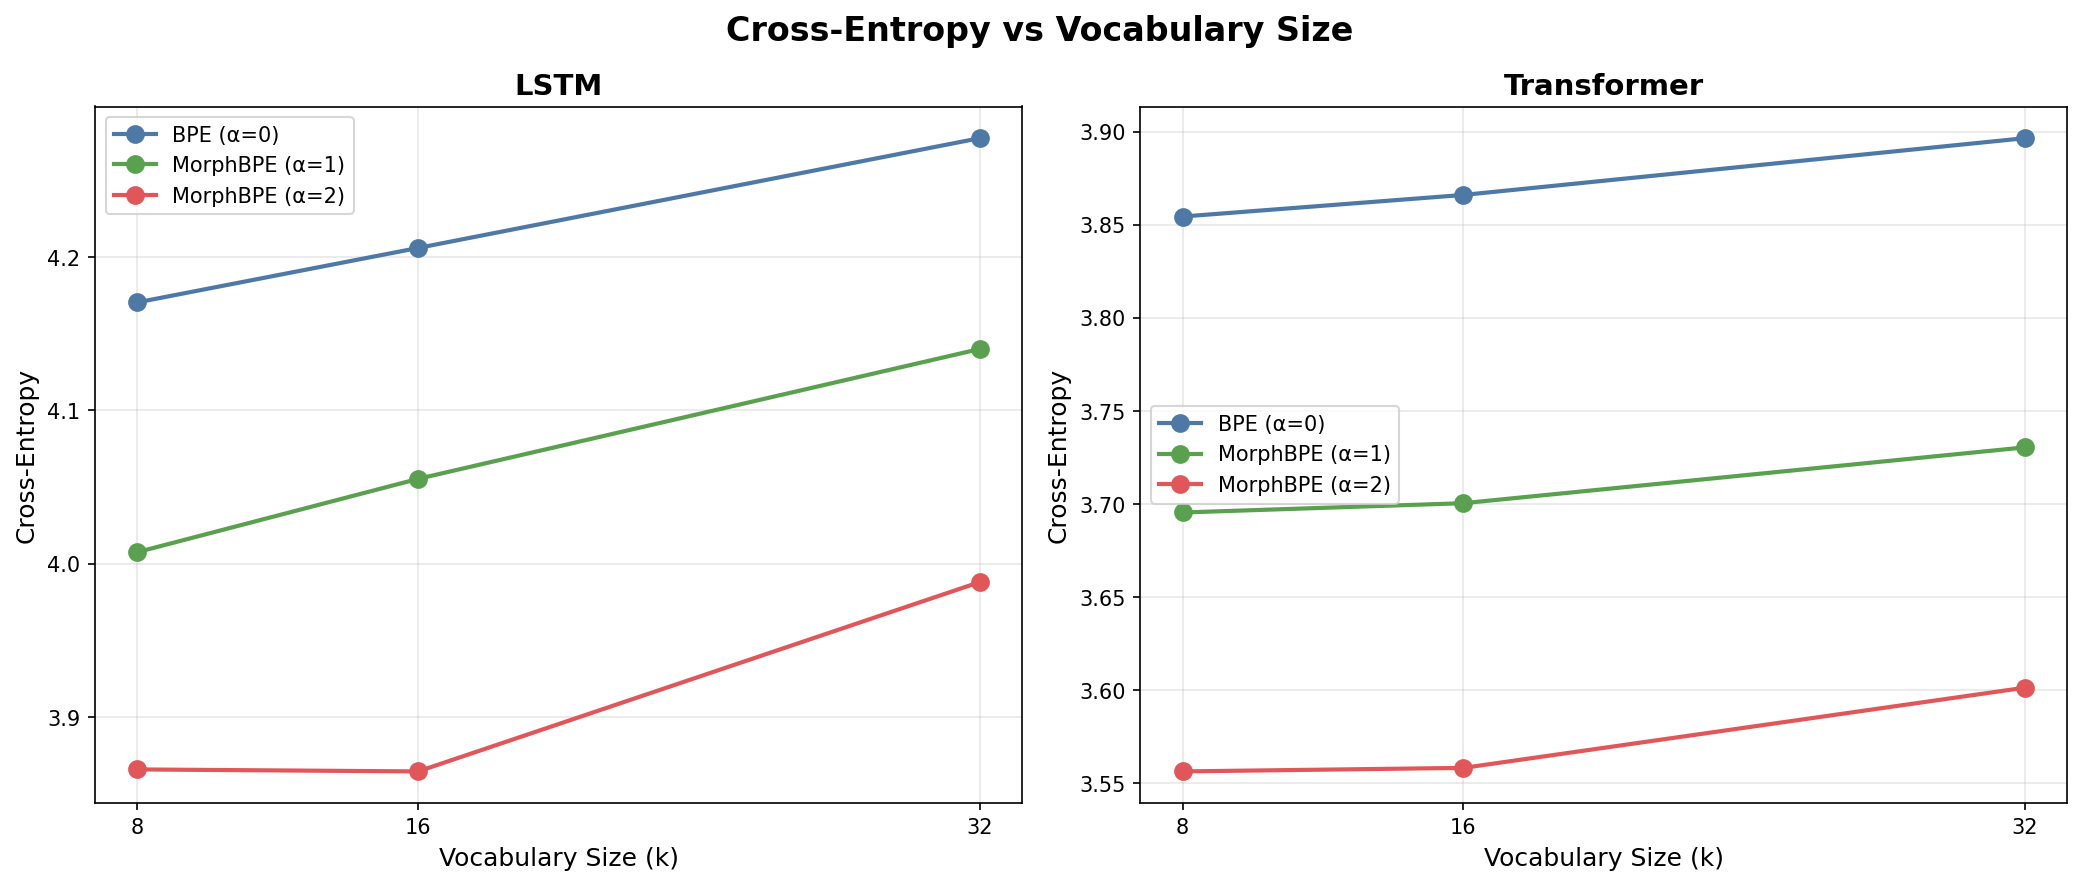
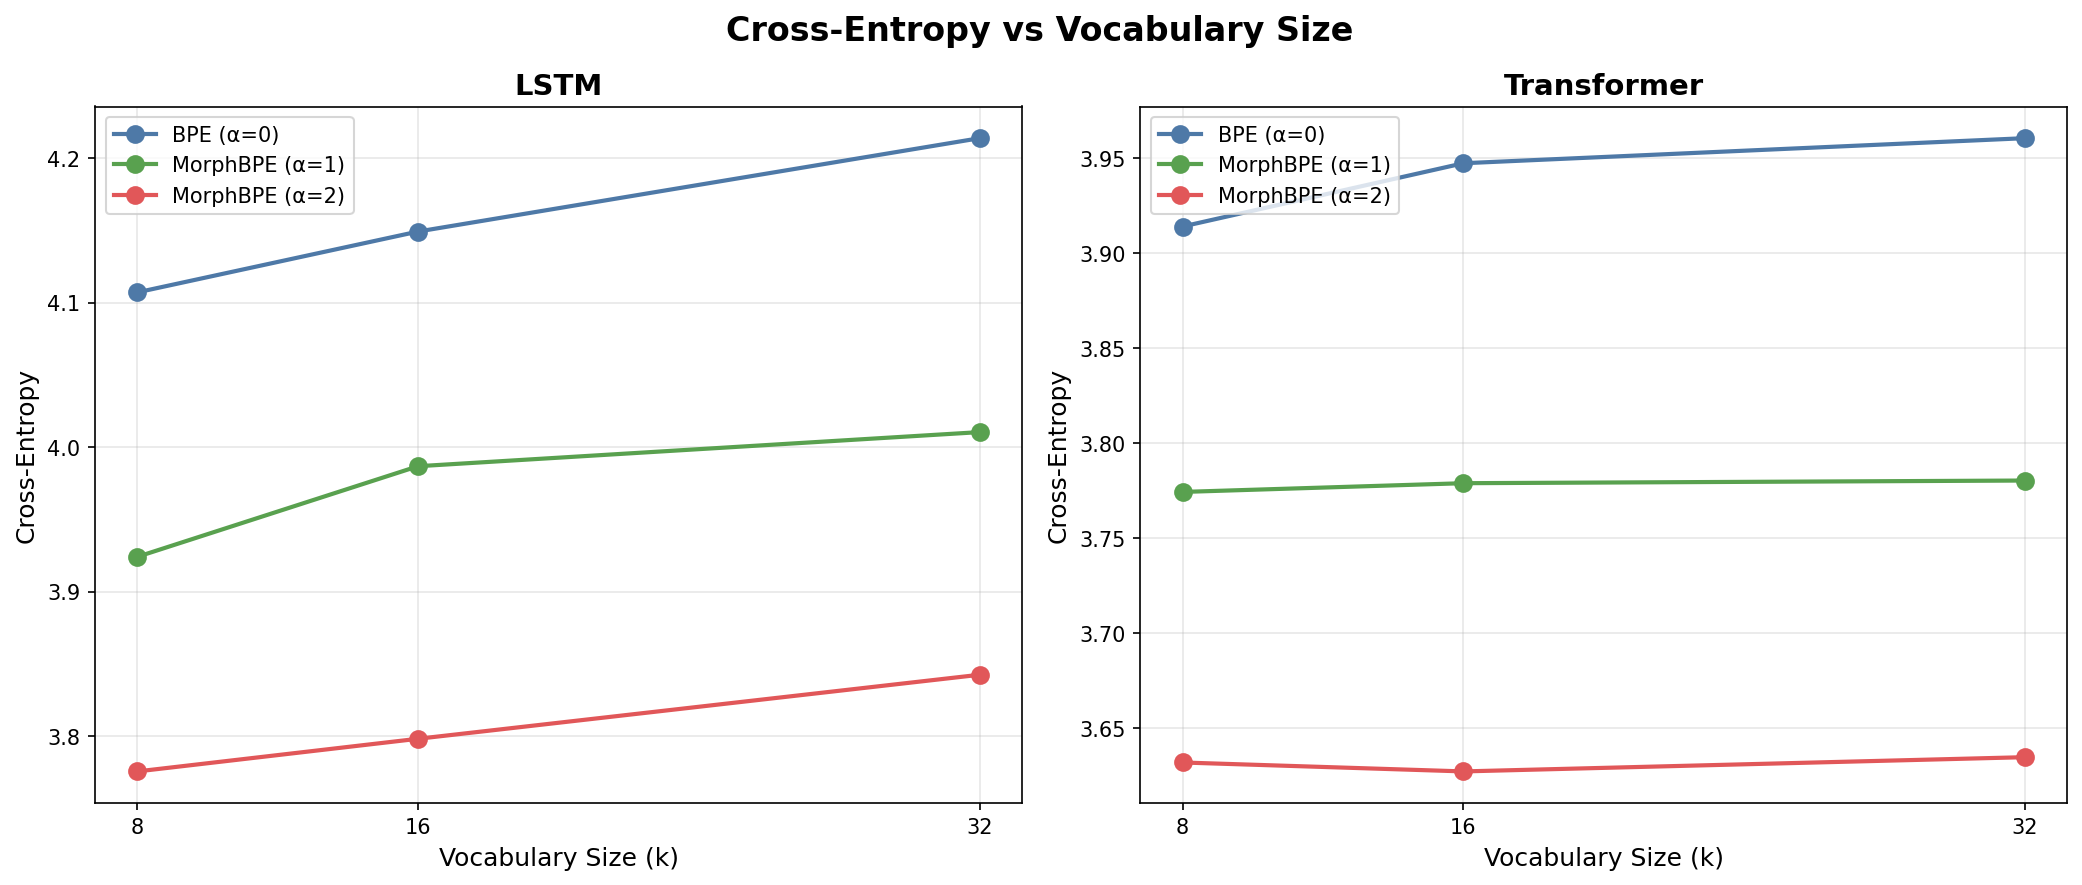
Update to full corpus (8000/500, seq_len=32) with final results
- All 18 experiments completed with full paper settings
- CE reduction: a=1.0 by 3.6-4.8%, a=2.0 by 7.2-8.8% vs BPE
- Best config: 16k a=2.0 Transformer (CE=3.6272, PPL=37.61)
- Pareto: MorphBPE 8k a=2.0 beats BPE 32k (CE -8.3%, PPL -28%, 4x smaller vocab)
- Updated all plots and cost-benefit analysis with new data

diff --git a/scripts/cost_benefit_analysis.py b/scripts/cost_benefit_analysis.py
@@ -29,24 +29,24 @@ INTRINSIC = {
 # Data from extrinsic_eval_8k_32k_results.txt (extrinsic)
 # (vocab, alpha, model): (ce, ppl)
 EXTRINSIC = {
-    (8000, 0.0, "LSTM"):         (4.1705, 64.75),
-    (8000, 0.0, "Transformer"):  (3.8545, 47.21),
-    (8000, 1.0, "LSTM"):         (4.0076, 55.01),
-    (8000, 1.0, "Transformer"):  (3.6955, 40.26),
-    (8000, 2.0, "LSTM"):         (3.8659, 47.75),
-    (8000, 2.0, "Transformer"):  (3.5564, 35.04),
-    (16000, 0.0, "LSTM"):        (4.2060, 67.09),
-    (16000, 0.0, "Transformer"): (3.8661, 47.76),
-    (16000, 1.0, "LSTM"):        (4.0554, 57.71),
-    (16000, 1.0, "Transformer"): (3.7005, 40.47),
-    (16000, 2.0, "LSTM"):        (3.8646, 47.68),
-    (16000, 2.0, "Transformer"): (3.5583, 35.10),
-    (32000, 0.0, "LSTM"):        (4.2776, 72.07),
-    (32000, 0.0, "Transformer"): (3.8966, 49.23),
-    (32000, 1.0, "LSTM"):        (4.1401, 62.81),
-    (32000, 1.0, "Transformer"): (3.7305, 41.70),
-    (32000, 2.0, "LSTM"):        (3.9881, 53.95),
-    (32000, 2.0, "Transformer"): (3.6014, 36.65),
+    (8000, 0.0, "LSTM"):         (4.1073, 60.78),
+    (8000, 0.0, "Transformer"):  (3.9140, 50.10),
+    (8000, 1.0, "LSTM"):         (3.9243, 50.62),
+    (8000, 1.0, "Transformer"):  (3.7743, 43.57),
+    (8000, 2.0, "LSTM"):         (3.7758, 43.63),
+    (8000, 2.0, "Transformer"):  (3.6319, 37.79),
+    (16000, 0.0, "LSTM"):        (4.1494, 63.40),
+    (16000, 0.0, "Transformer"): (3.9473, 51.80),
+    (16000, 1.0, "LSTM"):        (3.9870, 53.89),
+    (16000, 1.0, "Transformer"): (3.7789, 43.77),
+    (16000, 2.0, "LSTM"):        (3.7984, 44.63),
+    (16000, 2.0, "Transformer"): (3.6272, 37.61),
+    (32000, 0.0, "LSTM"):        (4.2140, 67.62),
+    (32000, 0.0, "Transformer"): (3.9605, 52.49),
+    (32000, 1.0, "LSTM"):        (4.0106, 55.18),
+    (32000, 1.0, "Transformer"): (3.7803, 43.83),
+    (32000, 2.0, "LSTM"):        (3.8427, 46.65),
+    (32000, 2.0, "Transformer"): (3.6347, 37.89),
 }
 
 VOCABS = [8000, 16000, 32000]

diff --git a/scripts/extrinsic_eval_8k_32k.py b/scripts/extrinsic_eval_8k_32k.py
@@ -35,9 +35,9 @@ BATCH_SIZE = 128
 EPOCHS = 3
 LR = 0.001
 SEED = 42
-N_TRAIN = 4000  # increased from 2000 for better statistics
-N_TEST = 400
-SEQ_LEN = 24     # increased from 16 for longer context
+N_TRAIN = 8000  # full paper setting
+N_TEST = 500
+SEQ_LEN = 32     # full paper setting
 
 
 def set_seed(seed: int = SEED):

diff --git a/README.md b/README.md
@@ -97,36 +97,36 @@ Over-penalization (`alpha=2.0`) reduces CE by an additional 1.6–3.1%.
 
 ### Extrinsic Evaluation (vocab 8k–32k)
 
-Corpus: Sejm speeches (4000 train / 400 test), seq_len=24, 3 epochs. See `plots/` for visualizations.
+Corpus: Sejm speeches (8000 train / 500 test), seq_len=32, 3 epochs. See `plots/` for visualizations.
 
 | Vocab | α | Model | CE | PPL |
 |-------|---|-------|----|-----|
-| 8k | 0.0 (BPE) | LSTM | 4.1705 | 64.75 |
-| 8k | 0.0 (BPE) | Transformer | 3.8545 | 47.21 |
-| 8k | 1.0 | LSTM | 4.0076 | 55.01 |
-| 8k | 1.0 | Transformer | 3.6955 | 40.26 |
-| 8k | 2.0 | LSTM | 3.8659 | 47.75 |
-| 8k | 2.0 | Transformer | **3.5564** | **35.04** |
-| 16k | 0.0 (BPE) | LSTM | 4.2060 | 67.09 |
-| 16k | 0.0 (BPE) | Transformer | 3.8661 | 47.76 |
-| 16k | 1.0 | LSTM | 4.0554 | 57.71 |
-| 16k | 1.0 | Transformer | 3.7005 | 40.47 |
-| 16k | 2.0 | LSTM | 3.8646 | 47.68 |
-| 16k | 2.0 | Transformer | 3.5583 | 35.10 |
-| 32k | 0.0 (BPE) | LSTM | 4.2776 | 72.07 |
-| 32k | 0.0 (BPE) | Transformer | 3.8966 | 49.23 |
-| 32k | 1.0 | LSTM | 4.1401 | 62.81 |
-| 32k | 1.0 | Transformer | 3.7305 | 41.70 |
-| 32k | 2.0 | LSTM | 3.9881 | 53.95 |
-| 32k | 2.0 | Transformer | 3.6014 | 36.65 |
+| 8k | 0.0 (BPE) | LSTM | 4.1073 | 60.78 |
+| 8k | 0.0 (BPE) | Transformer | 3.9140 | 50.10 |
+| 8k | 1.0 | LSTM | 3.9243 | 50.62 |
+| 8k | 1.0 | Transformer | 3.7743 | 43.57 |
+| 8k | 2.0 | LSTM | 3.7758 | 43.63 |
+| 8k | 2.0 | Transformer | 3.6319 | 37.79 |
+| 16k | 0.0 (BPE) | LSTM | 4.1494 | 63.40 |
+| 16k | 0.0 (BPE) | Transformer | 3.9473 | 51.80 |
+| 16k | 1.0 | LSTM | 3.9870 | 53.89 |
+| 16k | 1.0 | Transformer | 3.7789 | 43.77 |
+| 16k | 2.0 | LSTM | 3.7984 | 44.63 |
+| 16k | 2.0 | Transformer | **3.6272** | **37.61** |
+| 32k | 0.0 (BPE) | LSTM | 4.2140 | 67.62 |
+| 32k | 0.0 (BPE) | Transformer | 3.9605 | 52.49 |
+| 32k | 1.0 | LSTM | 4.0106 | 55.18 |
+| 32k | 1.0 | Transformer | 3.7803 | 43.83 |
+| 32k | 2.0 | LSTM | 3.8427 | 46.65 |
+| 32k | 2.0 | Transformer | 3.6347 | 37.89 |
 
 **Key findings:**
 
 - **Alpha ranking**: α=2.0 > α=1.0 > α=0.0 (BPE) consistently across all vocab sizes and models
-- **CE reduction**: α=1.0 reduces CE by 3.2–4.3% vs BPE; α=2.0 by 6.8–8.1%
-- **Transformer > LSTM**: 7.6–9.9% CE reduction across all configs
-- **Best config**: 8k α=2.0 Transformer (CE=3.56, PPL=35.04)
-- **Vocab size**: 8k optimal at this corpus size; larger vocabs underperform due to sparse coverage
+- **CE reduction**: α=1.0 reduces CE by 3.6–4.8% vs BPE; α=2.0 by 7.2–8.8%
+- **Transformer > LSTM**: 3.8–6.0% CE reduction across all configs
+- **Best config**: 16k α=2.0 Transformer (CE=3.6272, PPL=37.61)
+- **Vocab size**: 8k and 16k perform similarly at α=2.0; 32k slightly worse due to sparse coverage
 
 ### Cost-Benefit Analysis
 
@@ -137,8 +137,8 @@ MorphBPE's morphological penalty costs only ~1-3% higher fertility but delivers 
 | Vocab size | 32,000 | 8,000 | **4x smaller** |
 | Fertility | 1.020 | 1.149 | +1.3% (absolute) |
 | MorphED | 0.389 | 0.456 | **+20.5% better** |
-| CE (Transformer) | 3.897 | 3.556 | **−8.7%** |
-| PPL (Transformer) | 49.23 | 35.04 | **−28.8%** |
+| CE (Transformer) | 3.897 | 3.632 | **−8.3%** |
+| PPL (Transformer) | 52.49 | 37.79 | **−28.0%** |
 
 **Pareto dominance**: MorphBPE 8k α=2.0 beats BPE 32k on CE while using 4x smaller vocabulary (= 4x smaller embedding layer, 4x less memory). All 6 MorphBPE configs with α≥1.0 Pareto-dominate BPE 32k.
 
